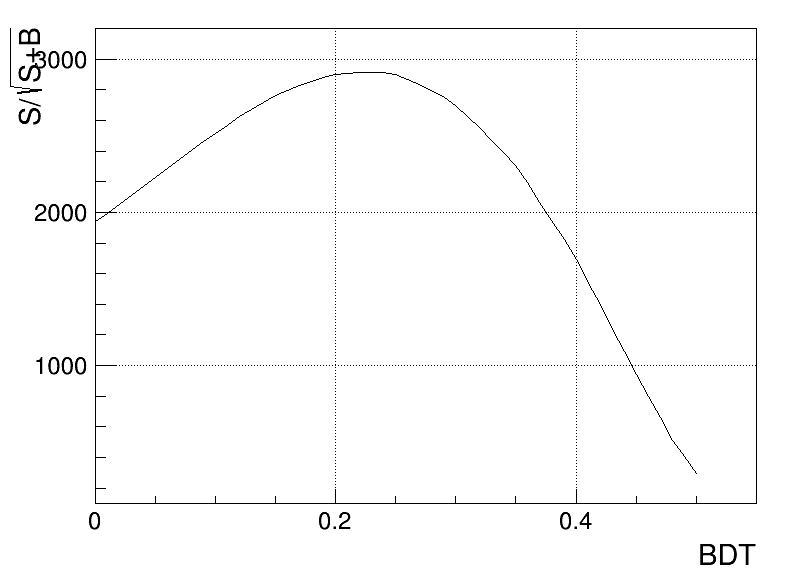
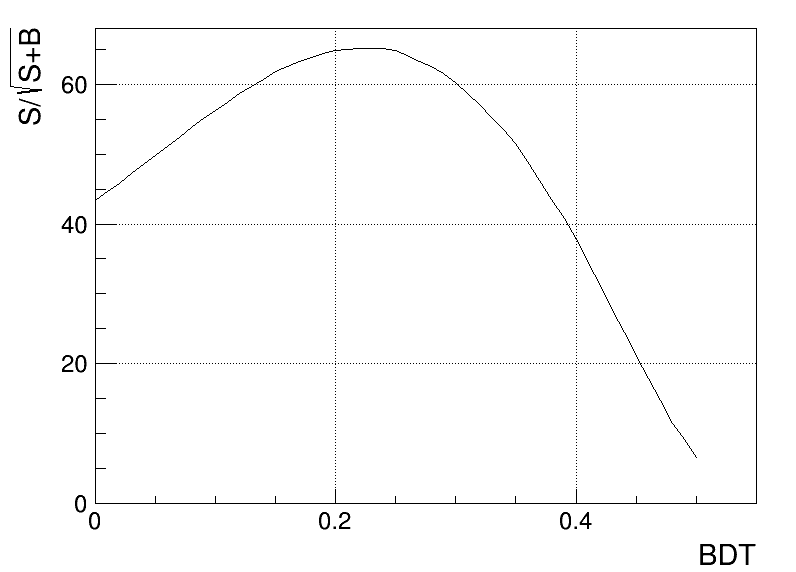
[+] update

diff --git a/Perform/plotMCsignificance.C b/Perform/plotMCsignificance.C
@@ -21,12 +21,12 @@ void plotMCsignificance(string s = "LM")
     }
 
     for ( int i = 0; i < 51; i++ ) {
-        TFile f((s + to_string(i) + ".root").c_str());
+        TFile f((string("MCsignificance/") + s + to_string(i) + ".root").c_str());
         TH1D * hs = (TH1D*) f.Get("hmass_Signal");
         TH1D * hb = (TH1D*) f.Get("hmass_Bckgnd");
 
-        double S = hs->Integral(hs->FindBin(massLow), hs->FindBin(massHigh)) / hs->GetBinWidth(1);
-        double B = hb->Integral(hb->FindBin(massLow), hb->FindBin(massHigh)) / hb->GetBinWidth(1);
+        double S = hs->Integral(hs->FindBin(massLow), hs->FindBin(massHigh)); // hs->GetBinWidth(1);
+        double B = hb->Integral(hb->FindBin(massLow), hb->FindBin(massHigh)); // hb->GetBinWidth(1);
 
         grSig->GetX()[i] = i*0.01;
         grSig->GetY()[i] = S/sqrt(S+B);

diff --git a/Perform/plotSig.C b/Perform/plotSig.C
@@ -77,11 +77,11 @@ void plotSig(string s = "LM")
     c->SetGridx();
     TH1F *Graph_Graph01 = new TH1F("Graph_Graph01","Graph",100,0,0.55);
     if ( s == "KS" ) {
-        Graph_Graph01->SetMinimum(5500.);
-        Graph_Graph01->SetMaximum(13500.);
-    } else {
         Graph_Graph01->SetMinimum(100.);
-        Graph_Graph01->SetMaximum(3200.);
+        Graph_Graph01->SetMaximum(300.);
+    } else {
+        Graph_Graph01->SetMinimum(0.);
+        Graph_Graph01->SetMaximum(68.);
     }
     Graph_Graph01->SetDirectory(0);
     Graph_Graph01->SetStats(0);
